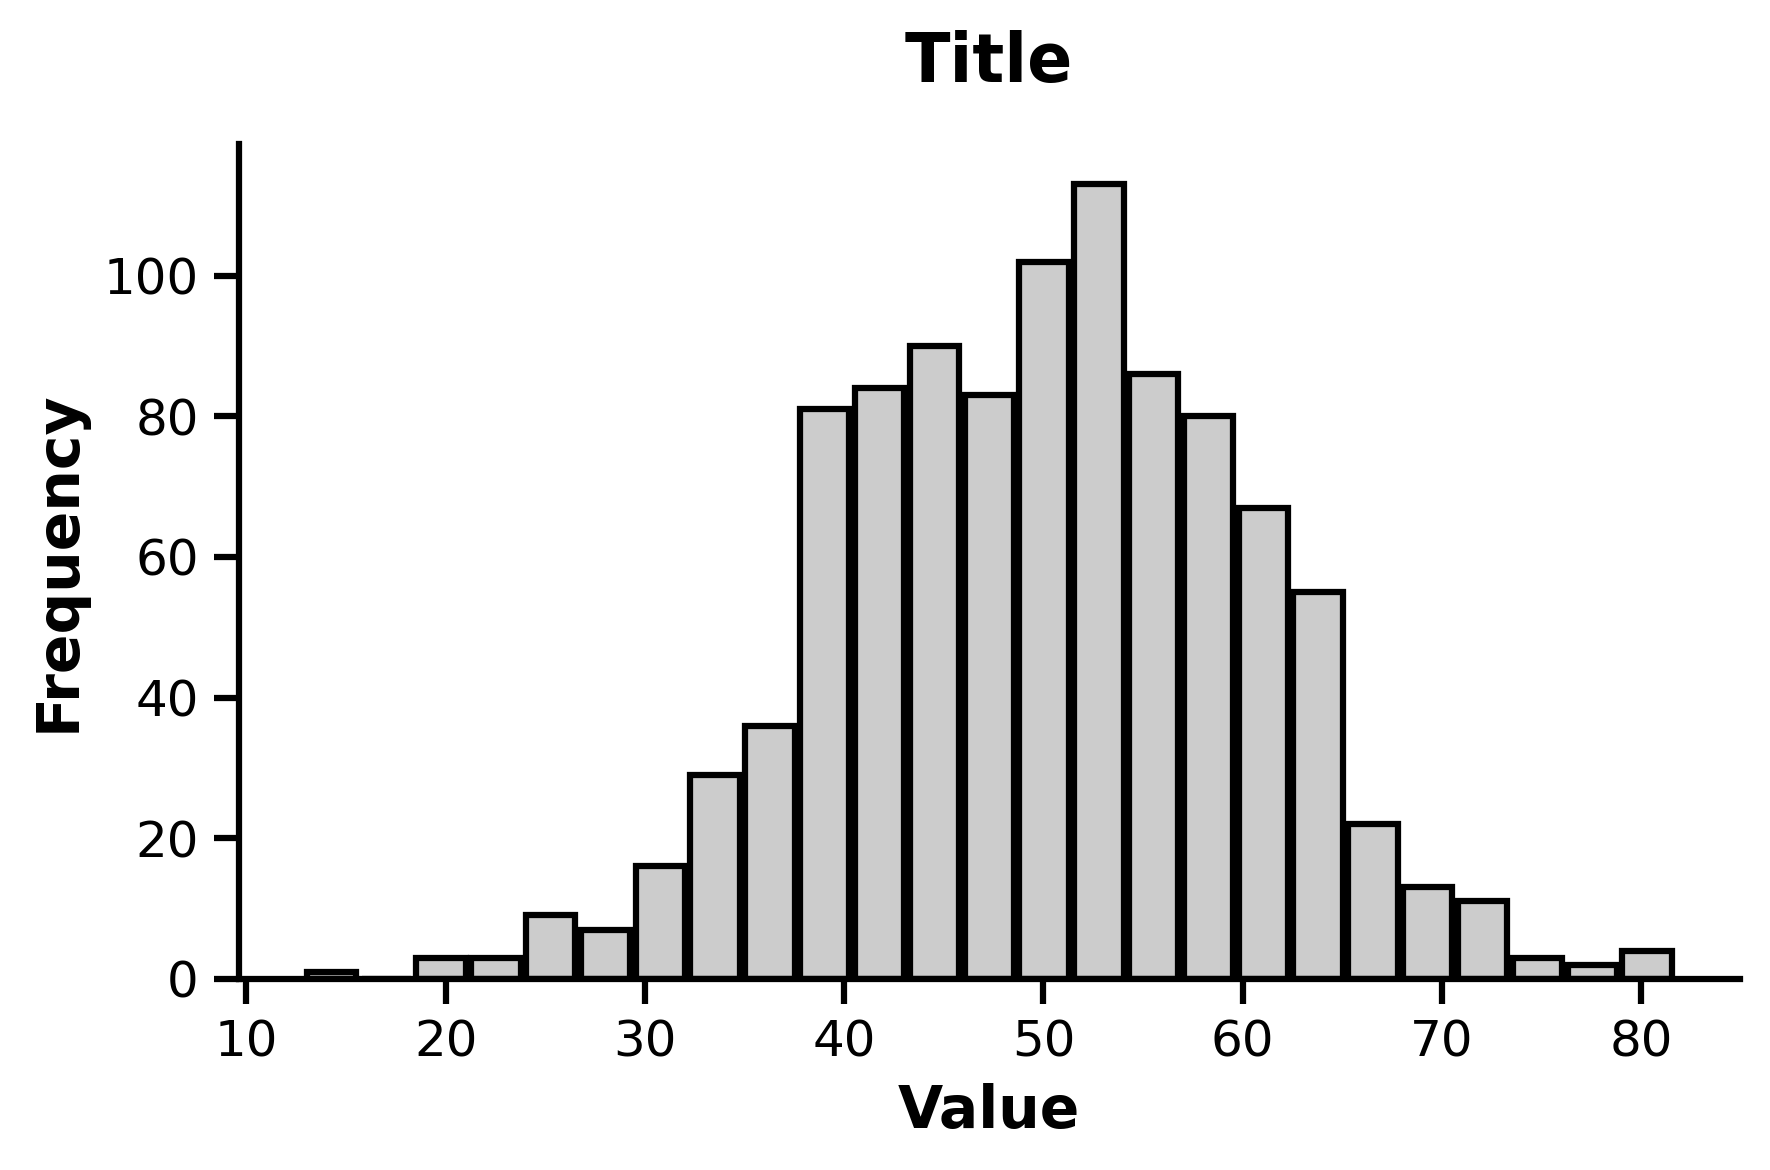
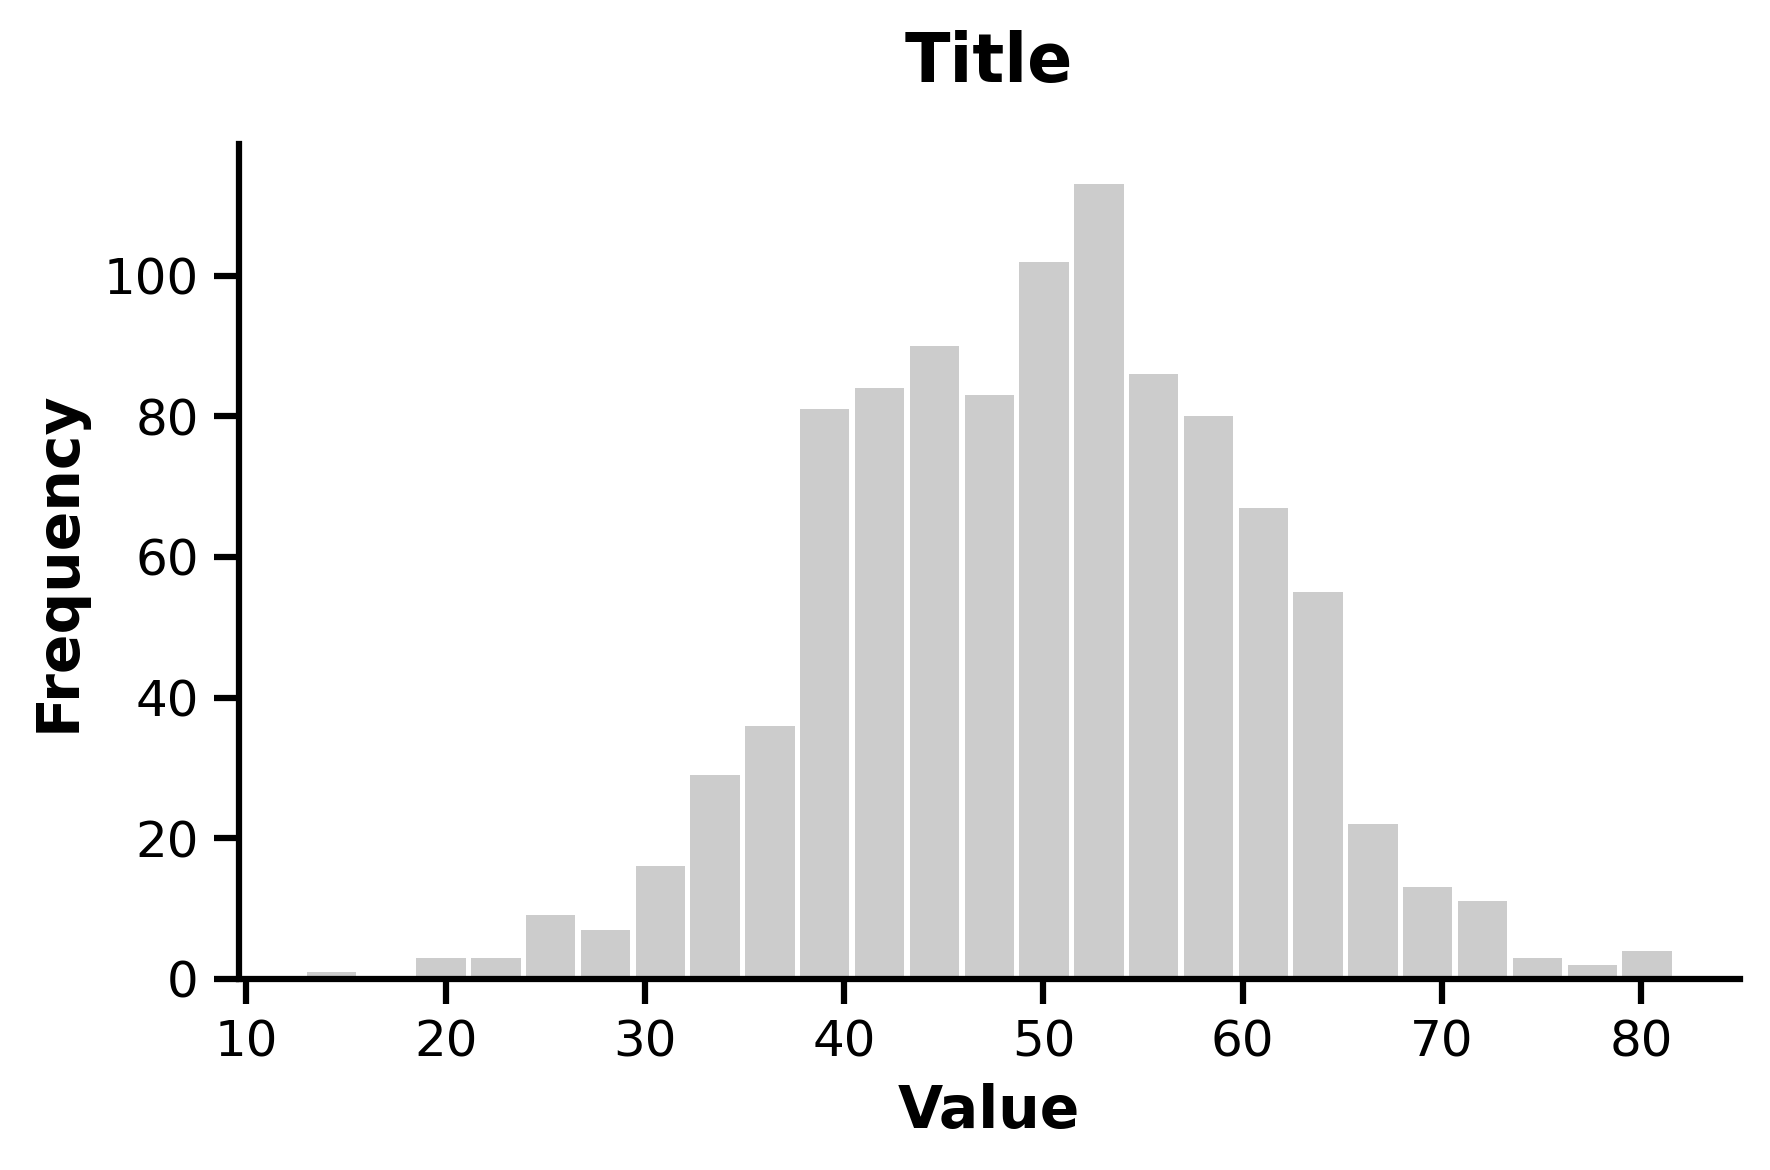
fix(styles): remove black borders from single_histogram_chart bars

Changed region(s): [[0.2175, 0.1538, 0.9633, 0.8308]]

diff --git a/AGENTS.md b/AGENTS.md
@@ -1,0 +1,57 @@
+# AGENTS.md — High-signal context for OpenCode
+
+## Read these first
+- `llms.md` — primary AI-facing instructions. Read it every session.
+- `CONTRIBUTING.md` — PR structure requirements and contribution flow.
+
+## Dev setup
+```bash
+pip install -e ".[dev]"   # quotes are required in zsh
+```
+
+## Commands
+- **Scaffold a new style:** `./scripts/new_style.sh <style_name>`
+- **Run all tests:** `pytest` (auto-discovers `.mplstyle` and `example.py` files under `styles/`)
+- **Run a single test file:** `pytest test/test_examples.py -k <style_dir_name>`
+
+## CRITICAL: Style loading order
+`.mplstyle` **MUST** be loaded via `plt.style.use()` **before** any figure or axes are created. Loading after can silently produce wrong output.
+
+```python
+plt.style.use(style_file)  # ← before plt.subplots()
+fig, ax = plt.subplots()
+```
+
+## Conventions
+- **Paths:** `pathlib.Path` exclusively. Root reference: `Path(__file__).parent`.
+- **Style decoupling:** Keep all styling in `.mplstyle` files, not in `example.py`. Do not hardcode `rcParams` or spine tweaks in Python if the style sheet already covers them.
+- **Dual export:** Every `example.py` must save both `.png` and `.pdf` to `img/`.
+- **Headless-safe:** Leave `plt.show()` commented out — CI and headless servers have no display.
+- **GraphPad aesthetic defaults:** bold labels, hidden top/right spines, inward ticks, upper-only error bars for biological data.
+
+## Test gotchas
+- Test discovery is dynamic (`glob` on all `.mplstyle` and `example.py` files). A malformed style or broken example in any directory **blocks CI for everything**.
+- `test_examples.py` monkeypatches `plt.show` to a no-op — do not rely on interactive display during tests.
+- Tests `chdir` into each style directory before running `example.py`, so relative paths inside scripts work correctly.
+
+## Publishing (release) workflow
+When a style is ready for release, execute these 6 steps in order:
+
+1. **Audit `example.py`** — move any hardcoded non-essential styles (colors, line widths, fonts) into the `.mplstyle` file.
+2. **Run tests** — `pytest` (use `conda run -n Matplotlib_Medial_Customed_Styles pytest` if using Conda).
+3. **Regenerate images** — run `python example.py` inside the style directory to produce fresh `.png` and `.pdf`.
+4. **Write/update the style's `readme.md`** — include preview image and usage summary.
+5. **Update main `README.md` Styles Gallery** — add the new style to the appropriate table.
+6. **Commit** the changes.
+
+## `.mplstyle` parsing gotchas
+- **Hex colors:** do NOT use `#` prefix (e.g. write `003366`, not `#003366`). Certain matplotlib parsers misread `#` as a comment character.
+- **Style inheritance gap:** some complex chart sub-components (e.g. violinplot bodies) do NOT auto-inherit `rcParams` patch/line properties. You must explicitly apply `plt.rcParams` values in `example.py` for those components — this is the one allowed exception to style decoupling.
+- **Composite chart alignment:** when overlaying components (e.g. box+violin in split mode), compute geometric center offsets so components align precisely in visual space.
+- **Variant isolation:** when a style has multiple mutually exclusive display modes (e.g. standard vs. split violin), create separate driver scripts (`example.py`, `example_split.py`) rather than conditional logic in a single file.
+
+## Repo quirks
+- `GEMINI.md` is in `.gitignore` — it is NOT committed to the repo.
+- `.aiignore` exists; translate it to your agent's ignore format (`.cursorignore`, `.geminiignore`, etc.) so generated images and caches are excluded.
+- Fonts: output relies on Arial/Helvetica/DejaVu Sans being installed. Missing fonts produce subtle visual differences, not errors.
+- Python 3.12 is the CI target (see `.github/workflows/pytest.yaml`).

diff --git a/styles/single_histogram_chart/readme.md b/styles/single_histogram_chart/readme.md
@@ -1,6 +1,6 @@
 # 直方图 - 八度灰风格 (Histogram Chart Octave Gray Style)
 
-这是一个用于生成经典直方图（Histogram）的 matplotlib 示例，采用八度灰配色及 GraphPad Prism 类似的边框风格。
+这是一个用于生成经典直方图（Histogram）的 matplotlib 示例，采用八度灰配色，无边框纯净风格。
 
 ## 📊 效果预览
 
